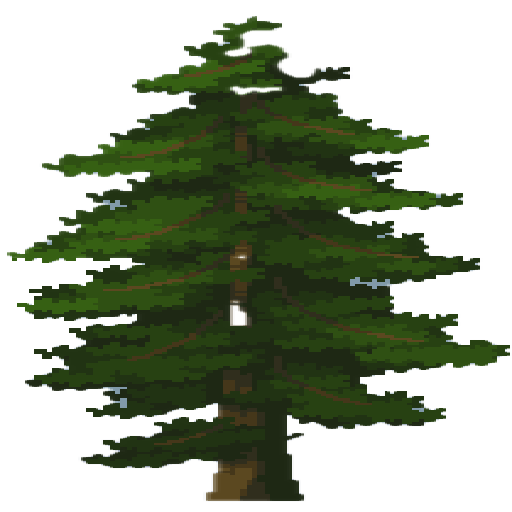
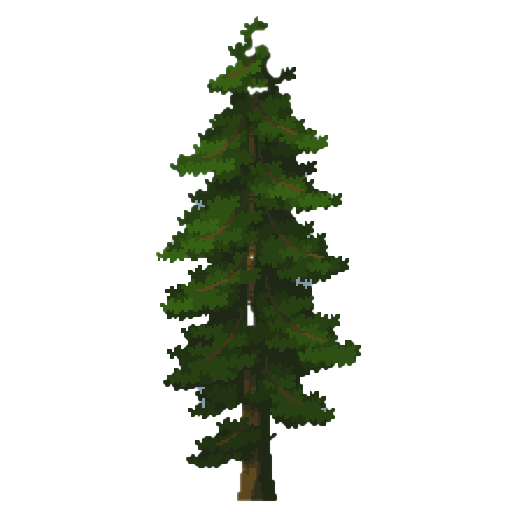
sprites

diff --git a/src/sprite-catalog.js b/src/sprite-catalog.js
@@ -42,13 +42,13 @@
       spriteId: 'tree_main',
       metrics: {
         wN: 0.5,
-        aspect: 3.0,
+        aspect: 1.0,
         tint: [1, 1, 1, 1],
         textureKey: 'tree',
         atlas: null,
       },
       assets: [
-        { type: 'texture', key: 'tree', frames: [] },
+        { type: 'atlas', key: 'tree', frames: [0-15] },
       ],
       type: 'static',
       interaction: 'static',
@@ -66,7 +66,7 @@
         atlas: null,
       },
       assets: [
-        { type: 'texture', key: 'tree', frames: [] },
+        { type: 'atlas', key: 'tree', frames: [0,15] },
       ],
       type: 'static',
       interaction: 'static',
